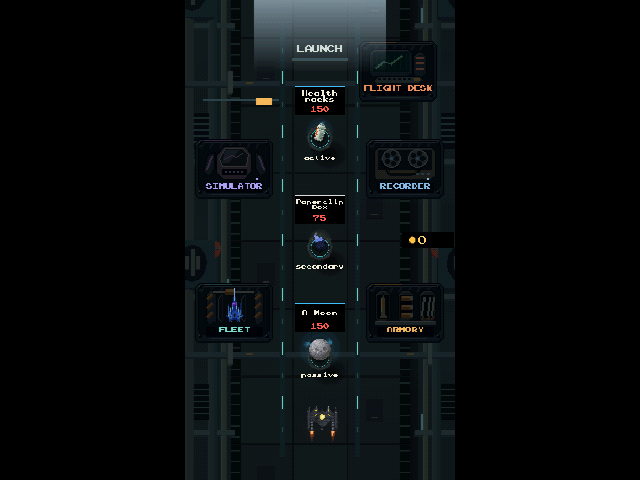
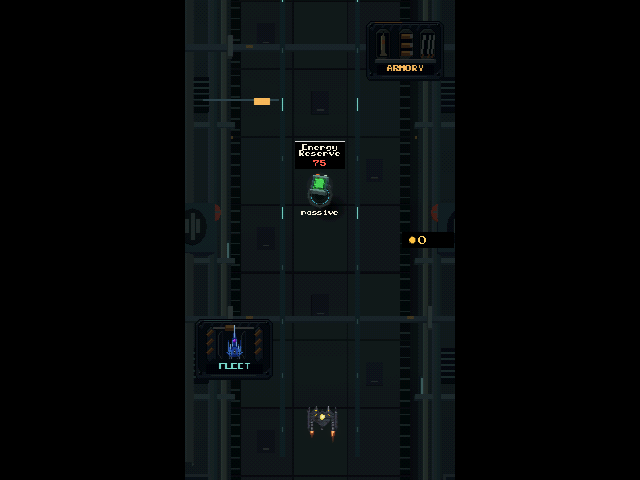
Spread the hangar along a scrolling flight lane with a Focus boost

diff --git a/Assets/Scripts/Run/HangarHub.cs b/Assets/Scripts/Run/HangarHub.cs
@@ -9,6 +9,7 @@ using TMPro;
 /// Dockside workshops flank a central outfitting lane. The persistent L1 core carries
 /// the player and instruments across the handoff from the hangar to the additive run.
 /// </summary>
+[DefaultExecutionOrder(50)]
 public sealed partial class HangarHub : MonoBehaviour
 {
     public static bool Active
@@ -19,7 +20,8 @@ public sealed partial class HangarHub : MonoBehaviour
     static RunDifficulty difficulty = RunDifficulty.Normal;
     // Where the title's tunnel came to rest, so the hangar continues from exactly that view.
     static float tunnelTravel;
-    static readonly Vector2[] plinthSpots = { new Vector2(0, -4), Vector2.zero, new Vector2(0, 4) };
+    static readonly Vector2[] plinthSpots = { new Vector2(0, 2), new Vector2(0, 13), new Vector2(0, 24) };
+    public const float DeckExtension = 36f;
     const float PlinthReach = .95f, GateHalfWidth = 1.55f;
 
     sealed class Plinth
@@ -110,6 +112,10 @@ public sealed partial class HangarHub : MonoBehaviour
     Shipcontroller player;
     Inputs input;
     Vector3 center;
+    UnityEngine.Camera view;
+    EZCameraShake.CameraShaker shaker;
+    float cameraTravel;
+
     Material scenery;
     DecisionOverlay overlay;
     Dialog dialog;
@@ -121,8 +127,9 @@ public sealed partial class HangarHub : MonoBehaviour
     {
         var go = GameObject.FindGameObjectWithTag("Player");
         player = go != null ? go.GetComponent<Shipcontroller>() : null;
-        var camera = UnityEngine.Camera.main;
-        center = camera != null ? camera.transform.position : Vector3.zero;
+        view = UnityEngine.Camera.main;
+        center = view != null ? view.transform.position : Vector3.zero;
+        shaker = view != null ? view.GetComponent<EZCameraShake.CameraShaker>() : null;
         scenery = new Material(Resources.Load<Shader>("LevelScenery"));
         BuildHall();
         BuildShop();
@@ -145,14 +152,24 @@ public sealed partial class HangarHub : MonoBehaviour
     void BuildHall()
     {
         // Normally the title's own tunnel came along; build a matching one only when it did not.
-        for (int i = 0; i < 4 && !LevelEnvironment.CarriesTitle; i++)
+        for (int i = 0; i < 4; i++)
         {
             // The title's camera sits at the origin; keep each section at the same place on screen.
             float y = center.y + LevelEnvironment.SectionY(i, tunnelTravel);
-            Scenery(LevelEnvironment.KitMesh("TunnelGround" + i), y, 90, -50, .8f);
-            Scenery(LevelEnvironment.KitMesh("TunnelDetail" + i), y, 90, -40, .8f);
-            Scenery(LevelEnvironment.KitMesh("TunnelNear" + i), y, 76, -25, .8f);
+            if (!LevelEnvironment.CarriesTitle)
+                HallSection(i, y);
+            // Continue the same four-section tunnel beyond the carried title scenery.
+            float next = center.y + LevelEnvironment.SectionY(i, tunnelTravel + DeckExtension) + DeckExtension;
+            if (next > y + 1f)
+                HallSection(i, next);
         }
+    }
+
+    void HallSection(int i, float y)
+    {
+        Scenery(LevelEnvironment.KitMesh("TunnelGround" + i), y, 90, -50, .8f);
+        Scenery(LevelEnvironment.KitMesh("TunnelDetail" + i), y, 90, -40, .8f);
+        Scenery(LevelEnvironment.KitMesh("TunnelNear" + i), y, 76, -25, .8f);
     }
 
     void Scenery(Mesh mesh, float y, float z, int order, float width)
@@ -253,7 +270,7 @@ public sealed partial class HangarHub : MonoBehaviour
         walletCount.text = Mathf.RoundToInt(shownCoins).ToString();
         var camera = UnityEngine.Camera.main;
         var canvasRect = (RectTransform)wallet.parent;
-        var viewport = camera.WorldToViewportPoint(new Vector3(center.x + 4, center.y, 0));
+        var viewport = camera.WorldToViewportPoint(new Vector3(center.x + 4, view.transform.position.y, 0));
         wallet.anchoredPosition = new Vector2((viewport.x - .5f) * canvasRect.rect.width, (viewport.y - .5f) * canvasRect.rect.height);
         wallet.gameObject.SetActive(Slide(plinths.Count) < .5f);
     }
@@ -263,7 +280,7 @@ public sealed partial class HangarHub : MonoBehaviour
         // A faint mist across the open doors, fading downward; flying into it launches the run.
         var bottom = new Color(.62f, .74f, .8f, 0);
         var top = new Color(.7f, .8f, .86f, 0);
-        float width = GateHalfWidth + .9f, low = GateY - 1.6f, high = center.y + 9.5f;
+        float width = GateHalfWidth + .9f, low = GateY - 1.6f, high = GateY + 2f;
         var mesh = new Mesh { name = "Launch mist" };
         mesh.vertices = new[] { new Vector3(-width, low), new Vector3(-width, high), new Vector3(width, high), new Vector3(width, low) };
         mesh.colors = new[] { bottom, top, top, bottom };
@@ -344,7 +361,7 @@ public sealed partial class HangarHub : MonoBehaviour
     }
 
     // The very top of the reachable arena.
-    float GateY => Camera.UpLimit - .1f;
+    float GateY => Camera.UpLimit + DeckExtension - .1f;
     Vector3 Spot(Vector2 local, float z) => new Vector3(center.x + local.x, center.y + local.y, z);
 
     // Arrival: the ship rises from below, the docks and plinths slide in from the sides and the light
@@ -402,6 +419,11 @@ public sealed partial class HangarHub : MonoBehaviour
             ItemSound.Play("itemSalvage", .16f);
         }
         var p = player.transform.position;
+        if (!Arriving && room < 0)
+        {
+            float target = Mathf.Clamp(p.y - center.y, 0, DeckExtension);
+            SetCameraTravel(Mathf.Lerp(cameraTravel, target, 1 - Mathf.Exp(-8 * Time.deltaTime)));
+        }
         if (UpdateDock(p)) return;
         int shop = NearestPlinth(p);
         for (int i = 0; i < plinths.Count; i++)
@@ -436,6 +458,18 @@ public sealed partial class HangarHub : MonoBehaviour
             else
                 dialog.Hide();
         }
+    }
+
+    void SetCameraTravel(float travel)
+    {
+        if (view != null)
+        {
+            var delta = Vector3.up * (travel - cameraTravel);
+            view.transform.position += delta;
+            if (shaker != null)
+                shaker.RestPositionOffset += view.transform.parent != null ? view.transform.parent.InverseTransformVector(delta) : delta;
+        }
+        cameraTravel = travel;
     }
 
     int NearestPlinth(Vector3 p)
@@ -515,7 +549,7 @@ public sealed partial class HangarHub : MonoBehaviour
         // The controller clamps the ship inside the arena, so it lets go first.
         player.enabled = false;
         var ship = player.transform;
-        float top = center.y + UnityEngine.Camera.main.orthographicSize + 1.5f, speed = 1f;
+        float top = view.transform.position.y + view.orthographicSize + 1.5f, speed = 1f;
         while (ship.position.y < top)
         {
             speed += Time.deltaTime * 6;
@@ -533,11 +567,12 @@ public sealed partial class HangarHub : MonoBehaviour
     // The run begins behind flowing clouds: the small Run scene activates additively (no Single load and no
     // automatic asset unload), the hangar scene unloads a few frames later, and the core's heavier parts start
     // one per frame, so no frame has to absorb the whole start.
-    static IEnumerator StartRun(Shipcontroller player, Vector3 parkedAt, Dialog dialog, AsyncOperation runLoad)
+    IEnumerator StartRun(Shipcontroller player, Vector3 parkedAt, Dialog dialog, AsyncOperation runLoad)
     {
         Launching = true;
         while (runLoad.progress < .9f)
             yield return null;
+        SetCameraTravel(0);
         Active = false;
         GameRules.StartNewRun(FlightTrials.Active?.difficulty ?? difficulty);
         LevelRun.Reset(FlightTrials.Active?.district ?? LevelId.Fields);
@@ -587,6 +622,7 @@ public sealed partial class HangarHub : MonoBehaviour
             input.PlayerControls.ActiveLeft.started -= Interact;
             input.PlayerControls.ActiveRight.started -= Interact;
         }
+        SetCameraTravel(0);
         ReleaseExhibit();
         if (scenery != null)
             Destroy(scenery);

diff --git a/Assets/Editor/Checks/VerifyHangarDeck.cs b/Assets/Editor/Checks/VerifyHangarDeck.cs
@@ -7,6 +7,8 @@ using System.Reflection;
 using UnityEditor;
 using UnityEditor.SceneManagement;
 using UnityEngine;
+using UnityEngine.InputSystem;
+using UnityEngine.InputSystem.LowLevel;
 
 [InitializeOnLoad]
 public static class VerifyHangarDeck
@@ -123,8 +125,8 @@ public sealed class HangarDeckReview : MonoBehaviour
         if (SessionState.GetBool("InspectDockLane", false))
         {
             SessionState.SetBool("InspectDockLane", false);
-            yield return Capture("Concourse");
-            Check(error == null, error ?? "final lane lighting");
+            yield return TraverseLane();
+            Check(error == null, error ?? "scrolling lane and campaign handoff");
             File.WriteAllText(VerifyHangarDeck.Folder + "/Result.txt", "PASS");
             yield break;
         }
@@ -189,6 +191,55 @@ public sealed class HangarDeckReview : MonoBehaviour
         Check(GameOverState.Active && MetaProgress.ContractClear("Cold Delivery") && MetaProgress.IsUnlocked("Thermos"), "sim objective certifies blueprint");
         File.WriteAllText(VerifyHangarDeck.Folder + "/Result.txt", "PASS");
     }
+    IEnumerator TraverseLane()
+    {
+        var keys = InputSystem.AddDevice<Keyboard>();
+        void Press(params Key[] state)
+        {
+            InputSystem.QueueStateEvent(keys, new KeyboardState(state));
+            InputSystem.Update();
+        }
+        var ship = FindAnyObjectByType<Shipcontroller>().transform;
+        var view = UnityEngine.Camera.main.transform;
+        float cameraOrigin = view.position.y, spawn = ship.position.y;
+        yield return Capture("Concourse");
+        Press(Key.UpArrow);
+        yield return null;
+        Check(Mathf.Abs(ship.position.y - spawn - GameRules.playerMoveSpeed * 1.2f * Time.deltaTime) < .05f, "ordinary hangar speed");
+        float before = ship.position.y;
+        Press(Key.UpArrow, Key.LeftShift);
+        yield return null;
+        Check(Mathf.Abs(ship.position.y - before - GameRules.playerMoveSpeed * 2.4f * Time.deltaTime) < .05f, "Focus doubles hangar travel speed");
+        float deadline = Time.realtimeSinceStartup + 8;
+        while (ship.position.y < 16 && Time.realtimeSinceStartup < deadline) yield return null;
+        Check(ship.position.y >= 16, "passed the first workshops");
+        Press();
+        yield return new WaitForSeconds(.45f);
+        Check(view.position.y > cameraOrigin + 14 && Mathf.Abs(ship.position.y - view.position.y) < .3f, "camera follows beyond combat ceiling");
+        yield return Capture("MidConcourse");
+        Press(Key.DownArrow, Key.LeftShift);
+        deadline = Time.realtimeSinceStartup + 8;
+        while (ship.position.y > 5 && Time.realtimeSinceStartup < deadline) yield return null;
+        Check(ship.position.y <= 5, "returned to lower deck");
+        Press();
+        yield return new WaitForSeconds(.55f);
+        Check(Mathf.Abs(ship.position.y - view.position.y) < .3f, "camera follows back down the lane");
+        Press(Key.UpArrow, Key.LeftShift);
+        deadline = Time.realtimeSinceStartup + 10;
+        float gate = Camera.UpLimit + HangarHub.DeckExtension - .1f;
+        while (ship.position.y < gate && Time.realtimeSinceStartup < deadline) yield return null;
+        Check(ship.position.y >= gate, "flew the full length of the deck");
+        Press();
+        yield return new WaitForSeconds(.5f);
+        Check(!CloudTransition.Busy && Mathf.Abs(view.position.y - cameraOrigin - HangarHub.DeckExtension) < .3f, "gate reachable and camera stops at far end");
+        yield return Capture("DepartureLane");
+        Press(Key.Z);
+        while (HangarHub.Active || HangarHub.Launching || CloudTransition.Busy) yield return null;
+        Press();
+        Check(Mathf.Abs(view.position.y - cameraOrigin) < .05f && Mathf.Abs(ship.position.y - spawn) < .1f, "launch restores combat camera and ship position");
+        InputSystem.RemoveDevice(keys);
+    }
+
     IEnumerator CheckPresentation()
     {
         bool endingsOnly = SessionState.GetBool("InspectFlightEndings", false);

diff --git a/Assets/Scripts/Run/HangarConcourse.cs b/Assets/Scripts/Run/HangarConcourse.cs
@@ -10,8 +10,10 @@ public sealed partial class HangarHub
     {
         Fleet, Armory, Simulator, Recorder, Flight
     }
-    static readonly Vector2[] berths = { new Vector2(-3.15f,-2.65f),new Vector2(3.15f,-2.65f),
-        new Vector2(-3.15f,2.65f),new Vector2(3.15f,2.65f),new Vector2(2.9f,6.25f) };
+    static readonly Vector2[] berths = {
+        new Vector2(-3.15f, -4), new Vector2(3.15f, 7), new Vector2(-3.15f, 18),
+        new Vector2(3.15f, 29), new Vector2(2.9f, 38)
+    };
     static readonly string[] signs = { "FLEET", "ARMORY", "SIMULATOR", "RECORDER", "FLIGHT DESK" };
     static readonly Color[] lamps = { DockInstrument.Sea,DockInstrument.Brass,new Color(.70f,.65f,.98f),
         new Color(.55f,.77f,.94f),new Color(.96f,.59f,.39f) };
@@ -57,9 +59,9 @@ public sealed partial class HangarHub
     {
         for (int side = -1; side <= 1; side += 2)
         {
-            Strip("Runway channel", new Vector2(side * 1.38f, 0), new Vector2(.18f, 16), Deck, -12);
-            for (int i = -7; i <= 7; i++)
-                Strip("Inset runway light", new Vector2(side * 1.38f, i), new Vector2(.065f, i % 2 == 0 ? .47f : .19f), i % 2 == 0 ? DockInstrument.Sea : Metal, -11);
+            Strip("Runway channel", new Vector2(side * 1.38f, DeckExtension * .5f), new Vector2(.18f, 16 + DeckExtension), Deck, -12);
+            for (int i = -7; i <= 7 + DeckExtension; i += 2)
+                Strip("Inset runway light", new Vector2(side * 1.38f, i), new Vector2(.065f, i % 4 == 1 ? .47f : .19f), i % 4 == 1 ? DockInstrument.Sea : Metal, -11);
         }
         for (int i = 0; i < berths.Length; i++)
         {
@@ -90,9 +92,9 @@ public sealed partial class HangarHub
             movingParts.Add(Strip("Status diode", berths[i] + new Vector2(.82f, -.40f), new Vector2(.075f, .075f), lamps[i], -5));
         Strip("Gantry track", new Vector2(-2.9f, 5.15f), new Vector2(2.8f, .08f), Metal);
         trolley = Strip("Overhead hoist", new Vector2(-2.9f, 5.1f), new Vector2(.58f, .27f), DockInstrument.Brass, -6);
-        Strip("Departure latch", new Vector2(0, 6.65f), new Vector2(2.1f, .12f), Metal);
-        gateGauge = Strip("Launch charge", new Vector2(0, 6.65f), new Vector2(.001f, .12f), DockInstrument.Brass, -5);
-        Stencil("LAUNCH", new Vector2(0, 7.05f), 2.8f, DockInstrument.Paper);
+        Strip("Departure latch", new Vector2(0, DeckExtension + 6.65f), new Vector2(2.1f, .12f), Metal);
+        gateGauge = Strip("Launch charge", new Vector2(0, DeckExtension + 6.65f), new Vector2(.001f, .12f), DockInstrument.Brass, -5);
+        Stencil("LAUNCH", new Vector2(0, DeckExtension + 7.05f), 2.8f, DockInstrument.Paper);
         dockHint = Stencil("", new Vector2(0, -6.15f), 2.7f, DockInstrument.Paper);
     }
 
@@ -129,6 +131,7 @@ public sealed partial class HangarHub
         int near = NearbyDock(p), stock = NearestPlinth(p);
         string text = gate ? "HOLD  " + DockInstrument.FireKey() + "   /   LAUNCH" : near >= 0 ? DockInstrument.FireKey() + "   /   " + signs[near] :
             stock >= 0 ? DockInstrument.FireKey() + "  BUY     " + DockInstrument.FireKey(true) + "  PIN" : "";
+        dockHint.transform.position = Spot(new Vector2(0, cameraTravel - 6.15f), 2);
         dockHint.text = text;
         gateHold = gate && !Arriving && !CloudTransition.Busy && !Menu.GameplayPaused && GameInput.Snapshot.Primary ?
             Mathf.Min(1, gateHold + Time.deltaTime) : 0;

diff --git a/Assets/Scripts/Player/Shipcontroller.cs b/Assets/Scripts/Player/Shipcontroller.cs
@@ -289,7 +289,8 @@ public class Shipcontroller : MonoBehaviour
         // Debug: K repairs the hull to full during a run (in the hangar K unlocks every item).
         if (!HangarHub.Active && health > 0 && Keyboard.current != null && Keyboard.current.kKey.wasPressedThisFrame)
             Repair(Mathf.CeilToInt(maxHealth));
-        speedMultiplier = GameInput.Snapshot.Focus ? slowMultiplier : 1;
+        float focusSpeed = HangarHub.Active ? 2f : slowMultiplier;
+        speedMultiplier = GameInput.Snapshot.Focus ? focusSpeed : 1;
         horizontalMove = move.x * GameRules.playerMoveSpeed * GameClock.PlayerDelta * speedMultiplier;
         verticalMove = move.y * GameRules.playerMoveSpeed * verticalMoveMultiplier * GameClock.PlayerDelta * speedMultiplier;
         if (LevelRun.Current == LevelId.Underwater && !CombatDecision.Active && !CloudTransition.Busy)
@@ -303,10 +304,11 @@ public class Shipcontroller : MonoBehaviour
         else
             waterVelocity = Vector2.zero;
 
-        transform.position = new Vector3(Mathf.Clamp(transform.position.x + horizontalMove, limits[2], limits[3]), Mathf.Clamp(transform.position.y + verticalMove, limits[1], limits[0]), transform.position.z);
+        float upperLimit = HangarHub.Active ? limits[0] + HangarHub.DeckExtension : limits[0];
+        transform.position = new Vector3(Mathf.Clamp(transform.position.x + horizontalMove, limits[2], limits[3]), Mathf.Clamp(transform.position.y + verticalMove, limits[1], upperLimit), transform.position.z);
         if (transform.position.x == limits[2] || transform.position.x == limits[3])
             waterVelocity.x = 0;
-        if (transform.position.y == limits[1] || transform.position.y == limits[0])
+        if (transform.position.y == limits[1] || transform.position.y == upperLimit)
             waterVelocity.y = 0;
 
     }

diff --git a/Assets/Scripts/Run/DecisionOverlay.cs b/Assets/Scripts/Run/DecisionOverlay.cs
@@ -115,14 +115,27 @@ public sealed class DecisionOverlay : MonoBehaviour
         foreach (var offer in offers)
         {
             bool show = offer.item != null && offer.item.Settled && !offer.item.Collected && !offer.item.IsDismissing;
-            offer.plate.gameObject.SetActive(show);
             if (!show)
+            {
+                offer.plate.gameObject.SetActive(false);
                 continue;
+            }
             offer.fade.alpha = Mathf.MoveTowards(offer.fade.alpha, 1, Time.deltaTime * 6);
             // The camera renders into the low-resolution scene texture, so go through the viewport.
             var viewport = camera.WorldToViewportPoint(offer.item.transform.position);
+            bool visible = !HangarHub.Active || (viewport.y >= 0 && viewport.y <= 1);
+            offer.plate.gameObject.SetActive(visible);
+            if (!visible)
+                continue;
             RectTransformUtility.ScreenPointToLocalPointInRectangle((RectTransform)transform, new Vector2(viewport.x * Screen.width, viewport.y * Screen.height), null, out var point);
-            offer.plate.anchoredPosition = new Vector2(Mathf.Clamp(point.x, -160, 160), Mathf.Clamp(point.y + 46, -260, 320));
+            var labelPoint = point + Vector2.up * 46;
+            if (HangarHub.Active)
+            {
+                // Dockside prices travel with their plinths along the scrolling lane.
+                offer.plate.anchoredPosition = labelPoint;
+            }
+            else
+                offer.plate.anchoredPosition = new Vector2(Mathf.Clamp(point.x, -160, 160), Mathf.Clamp(labelPoint.y, -260, 320));
         }
     }
 

diff --git a/Assets/Scripts/UI/IndustrialHUD.cs b/Assets/Scripts/UI/IndustrialHUD.cs
@@ -177,7 +177,8 @@ public sealed class IndustrialHUD : MonoBehaviour
         {
             sidePanel.anchoredPosition = new Vector2((float)Screen.width / Screen.height > .72f ? -44 : 6, 6);
         }
-        if (player == null || !player.enabled)
+        // Dock travel and arrival use the hangar's world-space limits.
+        if (HangarHub.Active || player == null || !player.enabled)
             return;
         var position = player.transform.position;
         position.y = Mathf.Clamp(position.y, bottomLimit, topLimit);

diff --git a/AGENTS.md b/AGENTS.md
@@ -170,6 +170,7 @@ These are the player's instructions. Preserve them across sessions and apply the
 ## Hangar and campaign completion (2 November 2026)
 
 - Put the three randomized shop items on the central launch lane. The Fleet, Armory, Simulator and Recorder are side workstations. Select and confirm difficulty at the flight desk, then deliberately hold to launch.
+- Space the workstations and shop plinths along a vertically scrolling hangar. The camera follows the ship up and down the deck. Holding Focus doubles hangar movement speed and retains precision movement during a run.
 - GR07 is the only starting hull. Campaign Hell clears commission Lancer, Ember and Warden in sequence, each with its predecessor. Simulator loans and victories are separate from campaign ship progression. Keep boss and no-hit marks per hull and difficulty.
 - A Hell campaign clear now ends the run after its boss reward. Show the victory receipt, coins collected and banked, run stats and new unlocks, then return to the hangar. A loss also files a receipt and reveals its unlocks.
 - Show victory and game over directly over the vertical flight area. Fit the title, tally and unlocks within its edges and keep the side margins clear.
